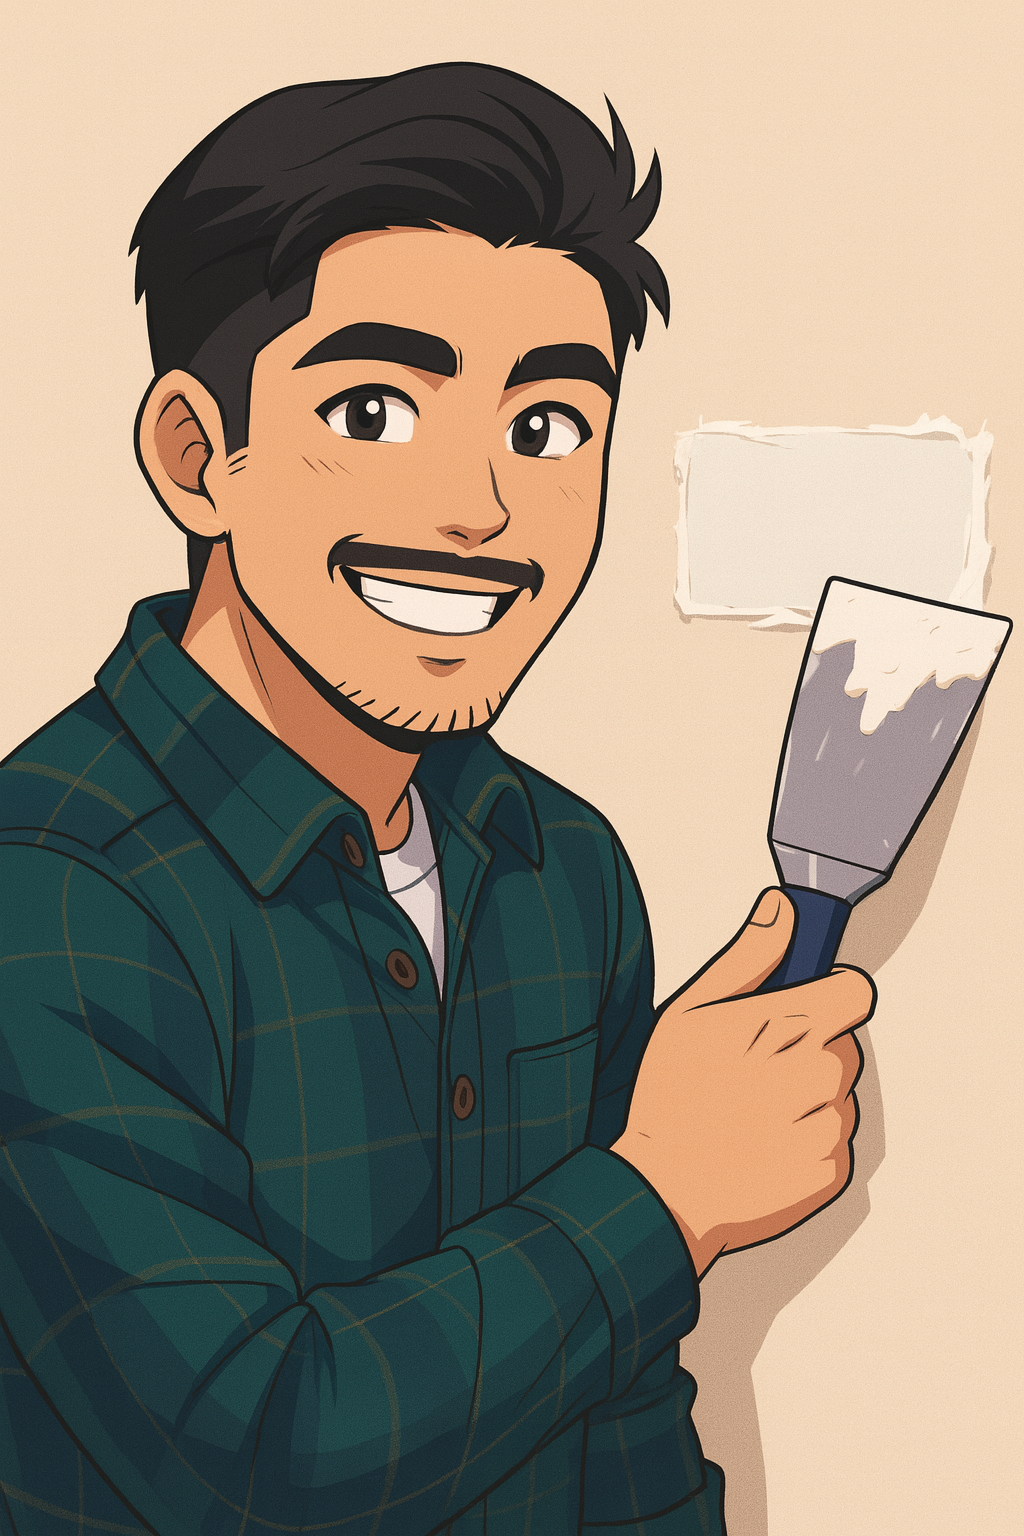
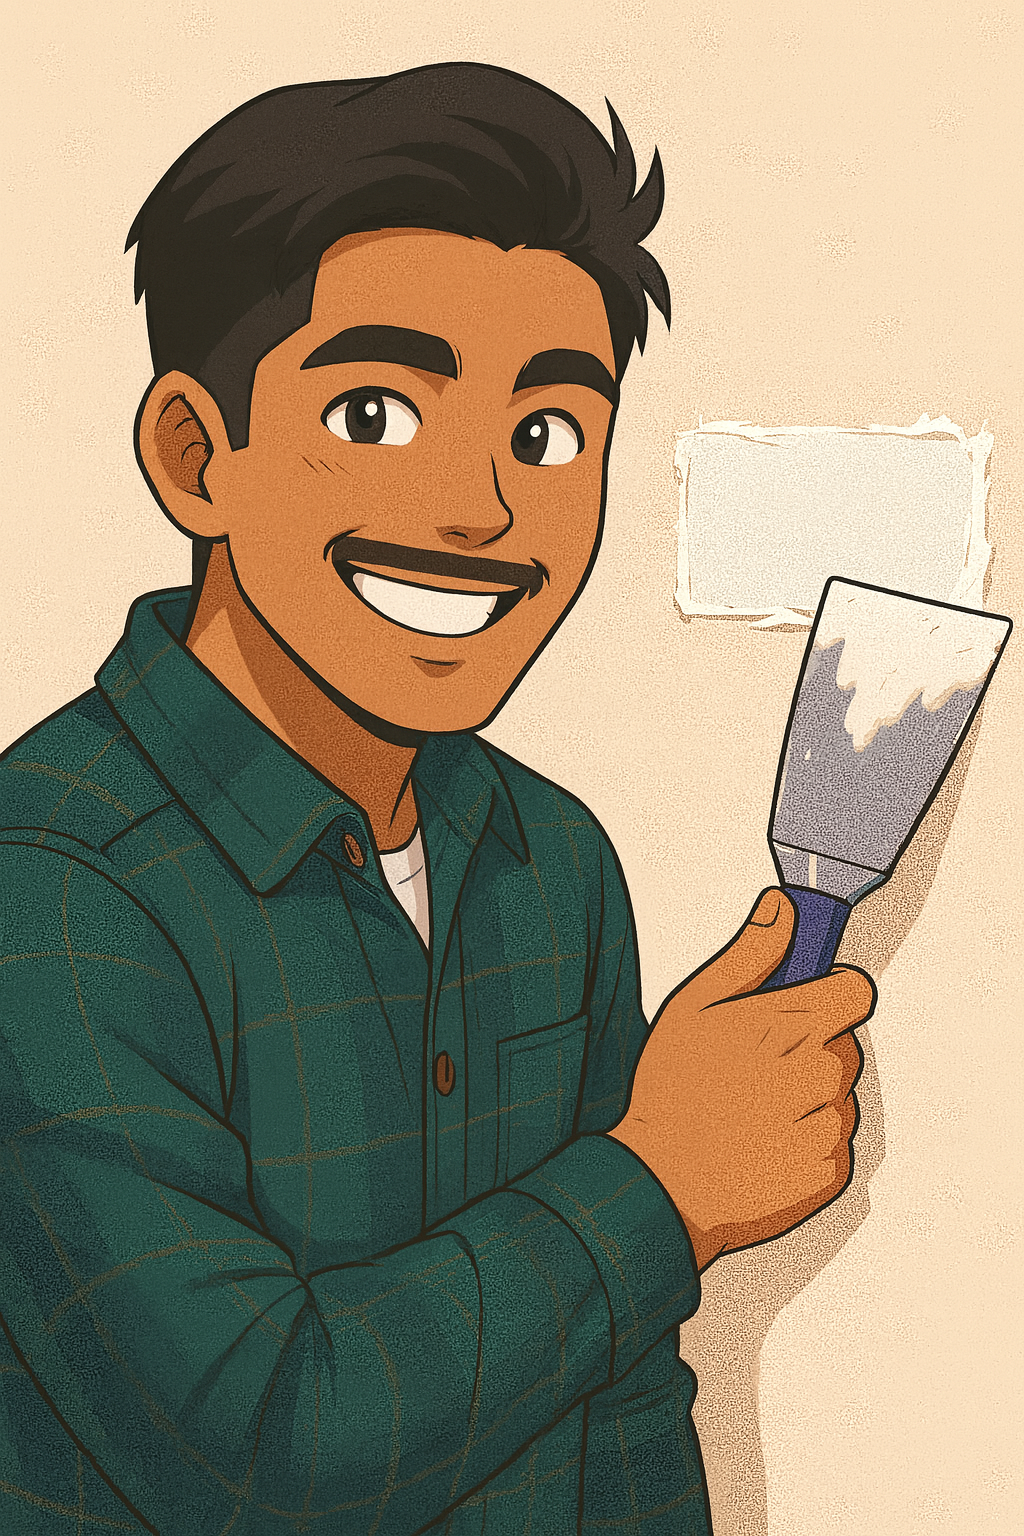
updated img div1

diff --git a/index.html b/index.html
@@ -537,7 +537,7 @@
 <div class="hero-visual">
     <!-- Anime-style image of you -->
     <img
-      src="transcend-drywall-hero.jpg"
+      src="img/transcend-drywall-hero.jpg"
       alt="Transcend Drywall Service contractor illustration"
       class="hero-photo"
     />
